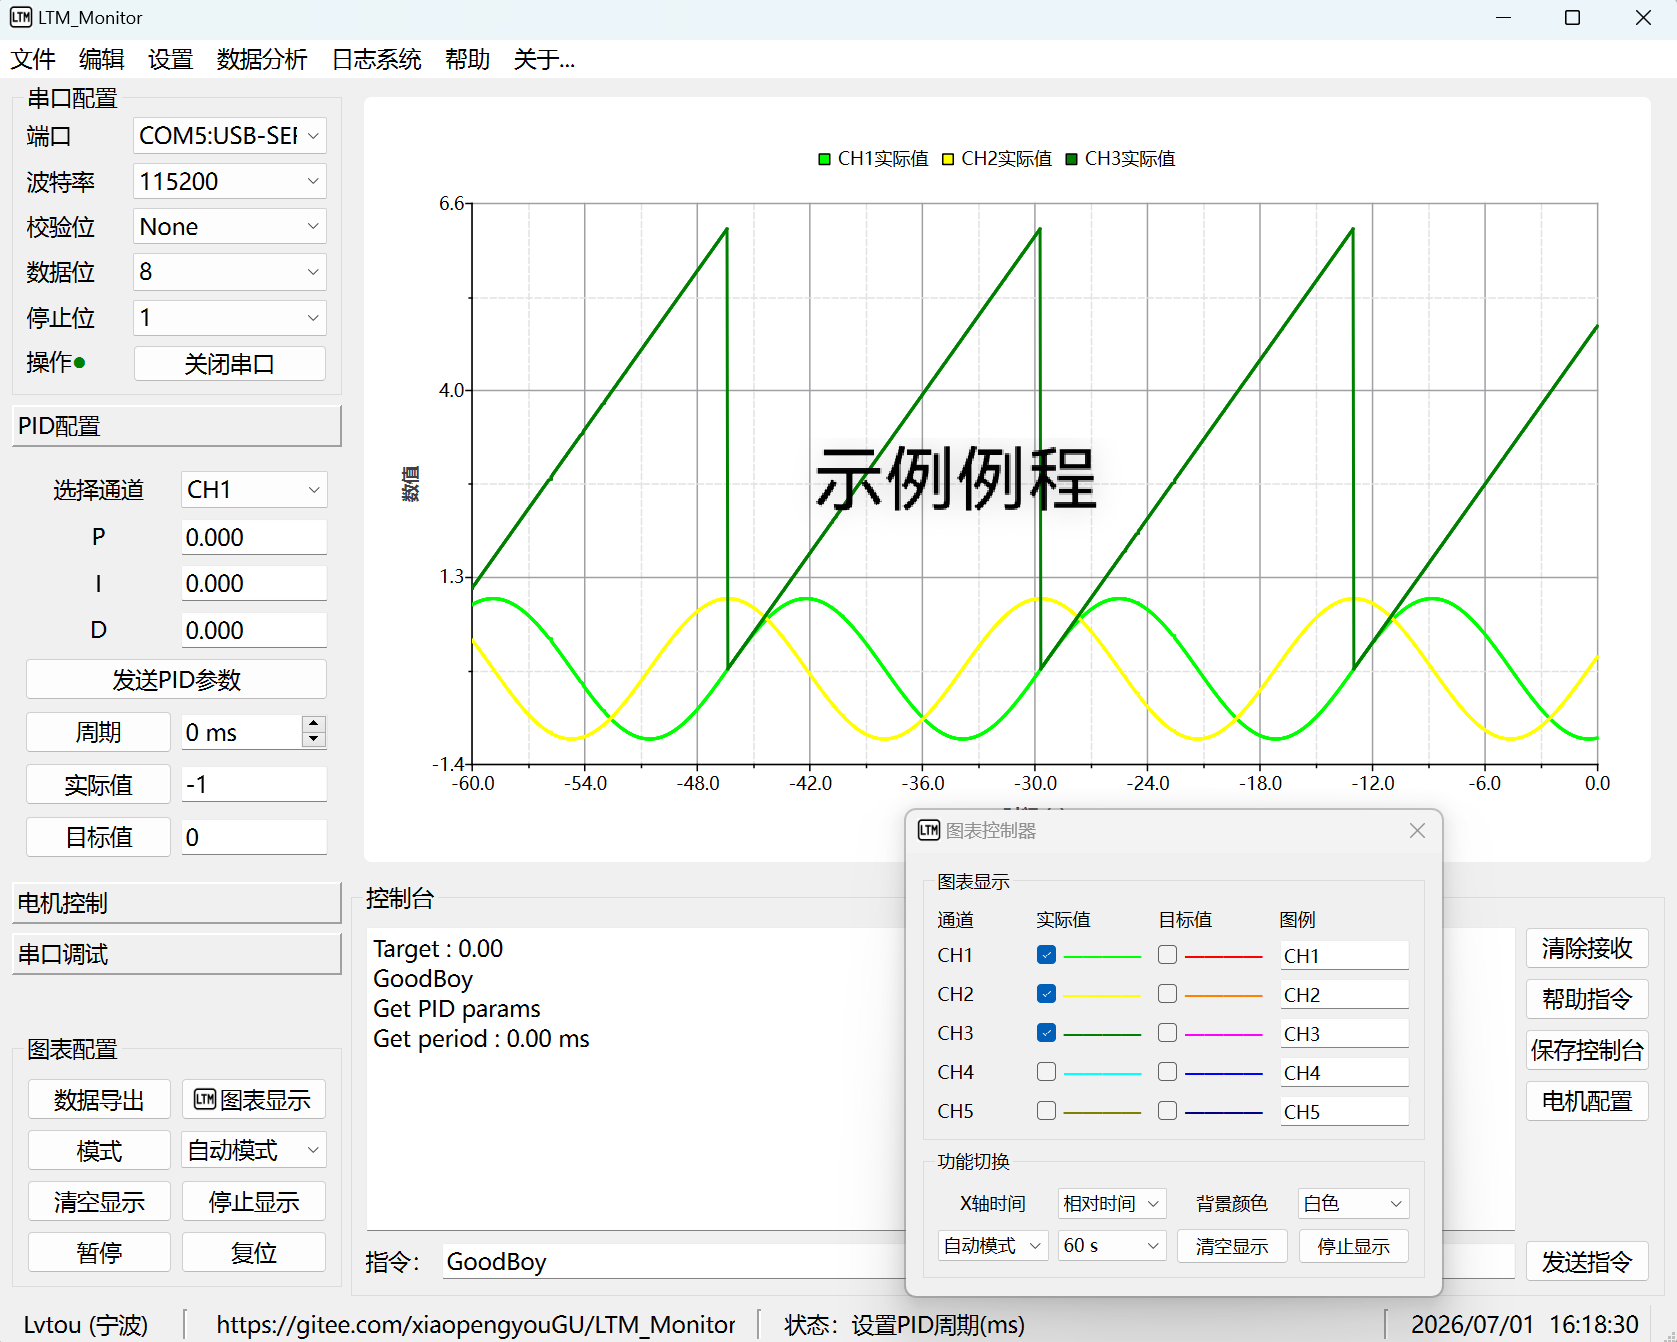
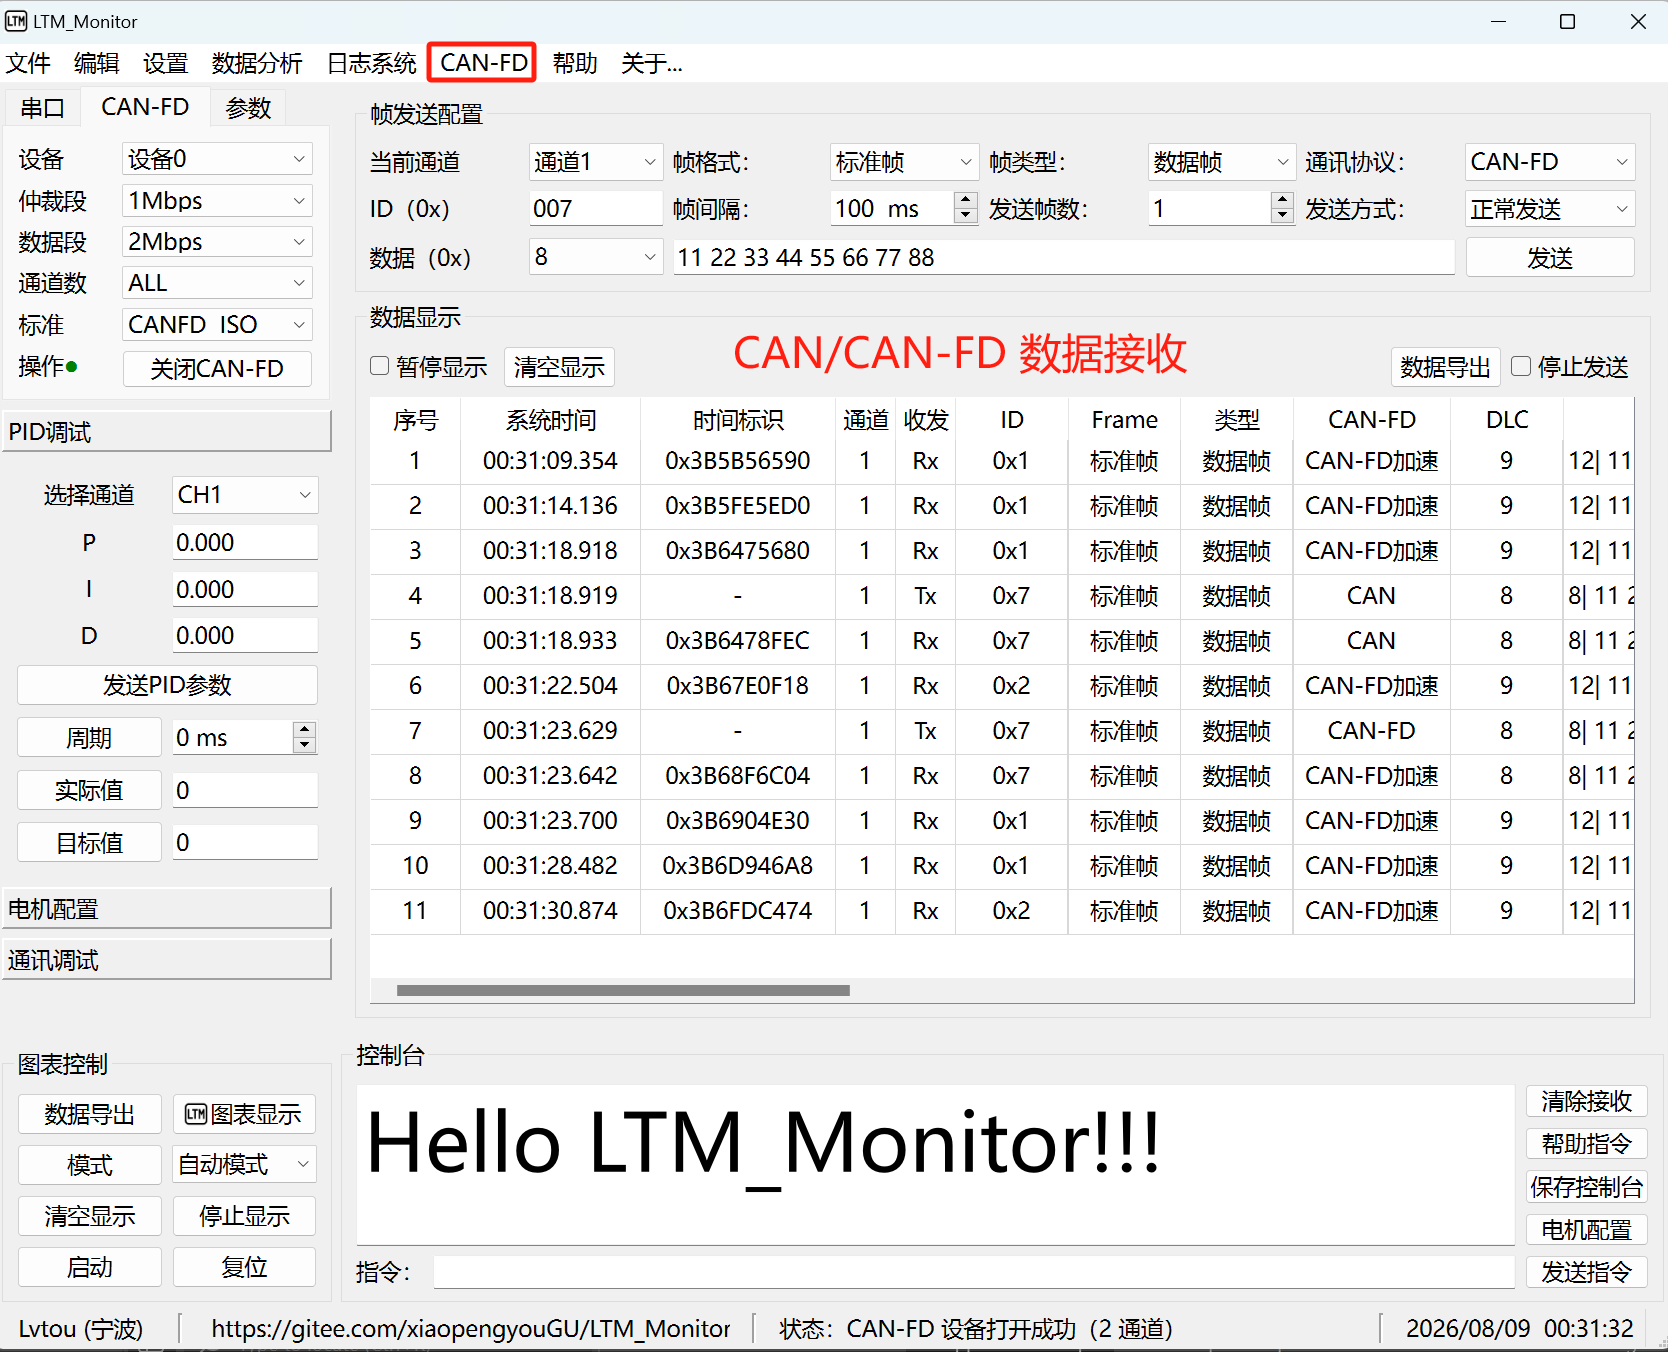
修改项目接收，添加 CAN-FD 界面

diff --git a/README.md b/README.md
@@ -18,6 +18,12 @@
     <p><em>主界面 - 串口通讯、实时曲线显示、数据记录</em></p>
 </div>
 
+<div align="center">
+    <img src="documents/images/界面3.png" alt="CAN-FD 界面">
+    <p><em>CAN-FD 界面 - CAN/CAN-FD通讯、数据记录、定时发送</em></p>
+</div>
+
+
 > 以上截图来自实际运行环境，界面可能因版本更新略有差异。
 
 ---
@@ -36,7 +42,7 @@
 示例例程运行结果如下图所示：
 
 <div align="center">
-    <img src="documents/images/界面3.png" alt="示例例程">
+    <img src="documents/images/界面4.png" alt="示例例程">
     <p><em>示例例程结果 - 串口通讯、实时曲线显示、数据记录</em></p>
 </div>
 
